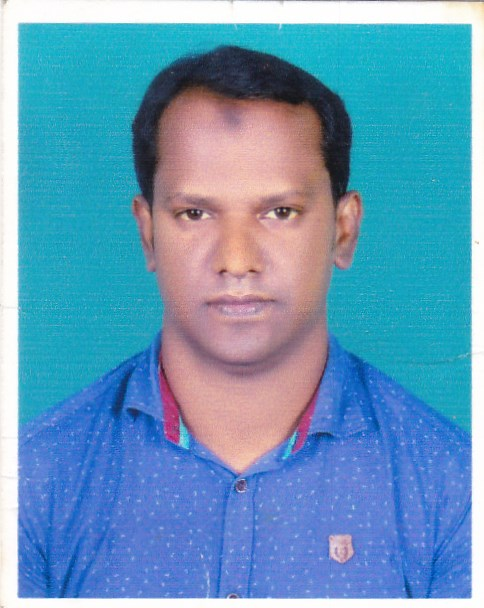
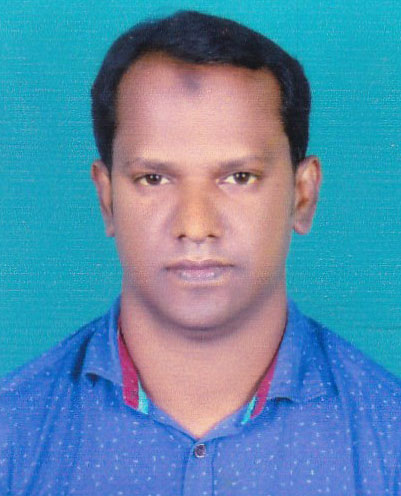
update

diff --git a/index.html b/index.html
@@ -85,7 +85,7 @@
                   <div class="row">
                     <div class="col-sm-6 col-md-5">
                       <div class="about-img">
-                        <img src="assets/img/mmhasan.jpg" class="img-fluid rounded b-shadow-a" alt="">
+                        <img src="assets/img/mmhasan.jpg" class="img-fluid b-shadow-a" alt="">
                       </div>
                     </div>
                     <div class="col-sm-6 col-md-7">

diff --git a/assets/css/style.css b/assets/css/style.css
@@ -791,6 +791,8 @@ a:hover {
 .about-mf .box-shadow-full {
   padding-top: 4rem;
   padding-bottom: 4rem;
+  background-color: #000000;
+  color: tomato;
 }
 
 .about-mf .about-img {
@@ -799,6 +801,8 @@ a:hover {
 
 .about-mf .about-img img {
   margin-left: 10px;
+  border-radius: 50%;
+  margin-top: -25px;
 }
 
 @media (min-width: 767px) {
